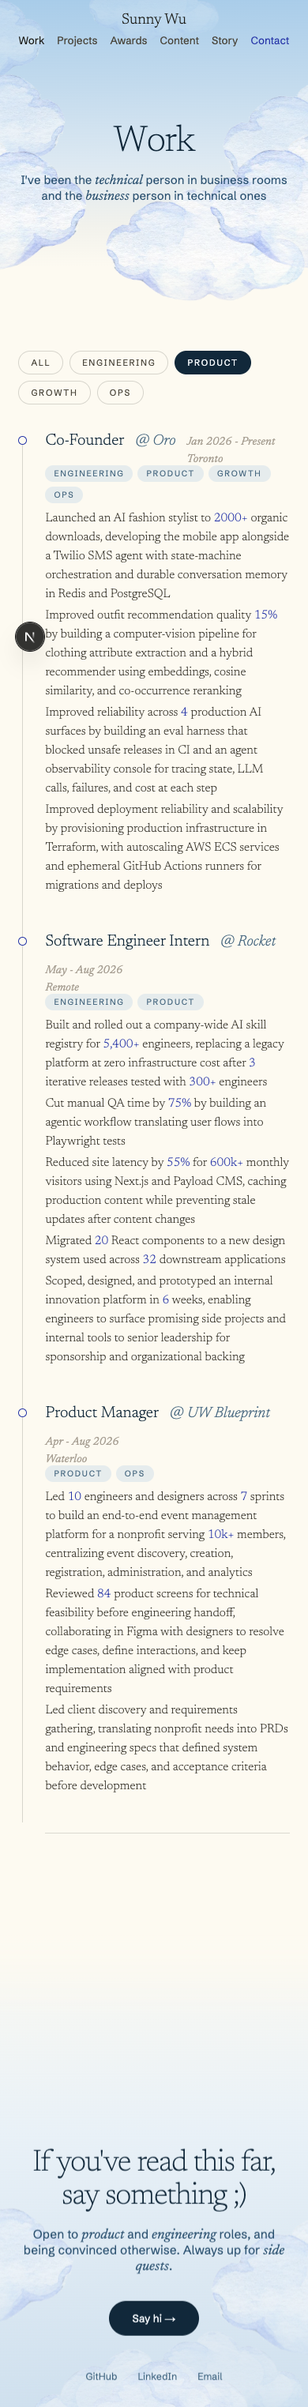
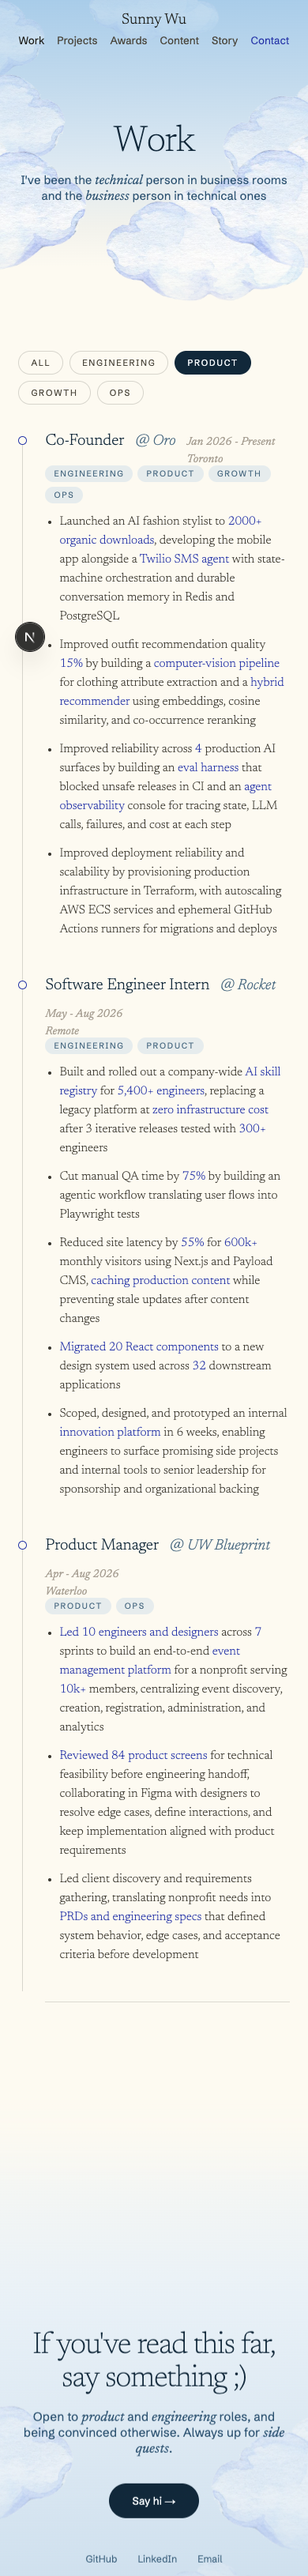
Match resume emphasis and improve experience bullet spacing

diff --git a/frontend/lib/data.ts b/frontend/lib/data.ts
@@ -51,7 +51,7 @@ export interface Role {
   tags: Discipline[];
   /** Optional: entries without one simply show the company name. */
   logo?: string;
-  /** Braces mark the figures that print in blue ink. */
+  /** Braces mark the metrics and phrases that print in blue ink. */
   bullets: string[];
 }
 
@@ -63,9 +63,9 @@ export const roles: Role[] = [
     location: "Toronto",
     tags: ["engineering", "product", "growth", "ops"],
     bullets: [
-      "Launched an AI fashion stylist to {2000+} organic downloads, developing the mobile app alongside a Twilio SMS agent with state-machine orchestration and durable conversation memory in Redis and PostgreSQL",
-      "Improved outfit recommendation quality {15%} by building a computer-vision pipeline for clothing attribute extraction and a hybrid recommender using embeddings, cosine similarity, and co-occurrence reranking",
-      "Improved reliability across {4} production AI surfaces by building an eval harness that blocked unsafe releases in CI and an agent observability console for tracing state, LLM calls, failures, and cost at each step",
+      "Launched an AI fashion stylist to {2000+ organic downloads}, developing the mobile app alongside a {Twilio SMS agent} with state-machine orchestration and durable conversation memory in Redis and PostgreSQL",
+      "Improved outfit recommendation quality {15%} by building a {computer-vision pipeline} for clothing attribute extraction and a {hybrid recommender} using embeddings, cosine similarity, and co-occurrence reranking",
+      "Improved reliability across {4} production AI surfaces by building an {eval harness} that blocked unsafe releases in CI and an {agent observability} console for tracing state, LLM calls, failures, and cost at each step",
       "Improved deployment reliability and scalability by provisioning production infrastructure in Terraform, with autoscaling AWS ECS services and ephemeral GitHub Actions runners for migrations and deploys",
     ],
   },
@@ -97,11 +97,11 @@ export const roles: Role[] = [
     location: "Remote",
     tags: ["engineering", "product"],
     bullets: [
-      "Built and rolled out a company-wide AI skill registry for {5,400+} engineers, replacing a legacy platform at zero infrastructure cost after {3} iterative releases tested with {300+} engineers",
+      "Built and rolled out a company-wide {AI skill registry} for {5,400+ engineers}, replacing a legacy platform at {zero infrastructure cost} after 3 iterative releases tested with {300+} engineers",
       "Cut manual QA time by {75%} by building an agentic workflow translating user flows into Playwright tests",
-      "Reduced site latency by {55%} for {600k+} monthly visitors using Next.js and Payload CMS, caching production content while preventing stale updates after content changes",
-      "Migrated {20} React components to a new design system used across {32} downstream applications",
-      "Scoped, designed, and prototyped an internal innovation platform in {6} weeks, enabling engineers to surface promising side projects and internal tools to senior leadership for sponsorship and organizational backing",
+      "Reduced site latency by {55%} for {600k+} monthly visitors using Next.js and Payload CMS, {caching production content} while preventing stale updates after content changes",
+      "{Migrated 20 React components} to a new design system used across {32} downstream applications",
+      "Scoped, designed, and prototyped an internal {innovation platform} in 6 weeks, enabling engineers to surface promising side projects and internal tools to senior leadership for sponsorship and organizational backing",
     ],
   },
   {
@@ -111,9 +111,9 @@ export const roles: Role[] = [
     location: "Waterloo",
     tags: ["product", "ops"],
     bullets: [
-      "Led {10} engineers and designers across {7} sprints to build an end-to-end event management platform for a nonprofit serving {10k+} members, centralizing event discovery, creation, registration, administration, and analytics",
-      "Reviewed {84} product screens for technical feasibility before engineering handoff, collaborating in Figma with designers to resolve edge cases, define interactions, and keep implementation aligned with product requirements",
-      "Led client discovery and requirements gathering, translating nonprofit needs into PRDs and engineering specs that defined system behavior, edge cases, and acceptance criteria before development",
+      "{Led 10 engineers and designers} across {7} sprints to build an end-to-end {event management platform} for a nonprofit serving {10k+} members, centralizing event discovery, creation, registration, administration, and analytics",
+      "{Reviewed 84 product screens} for technical feasibility before engineering handoff, collaborating in Figma with designers to resolve edge cases, define interactions, and keep implementation aligned with product requirements",
+      "Led client discovery and requirements gathering, translating nonprofit needs into {PRDs and engineering specs} that defined system behavior, edge cases, and acceptance criteria before development",
     ],
   },
   {

diff --git a/frontend/components/WorkTimeline.tsx b/frontend/components/WorkTimeline.tsx
@@ -206,12 +206,12 @@ export default function WorkTimeline() {
 
               <ul
                 style={{
-                  margin: "8px 0 0",
-                  padding: 0,
-                  listStyle: "none",
+                  margin: "12px 0 0",
+                  paddingLeft: 18,
+                  listStyle: "disc outside",
                   display: "flex",
                   flexDirection: "column",
-                  gap: 3,
+                  gap: 12,
                   maxWidth: 620,
                 }}
               >

diff --git a/frontend/lib/highlight.tsx b/frontend/lib/highlight.tsx
@@ -1,7 +1,7 @@
 import { Fragment, type ReactNode } from "react";
 import { color } from "@/lib/tokens";
 
-/** Renders {braced} figures in blue ink, leaving the rest of the line as written. */
+/** Renders {braced} metrics and phrases in blue ink, leaving the rest of the line as written. */
 export function highlightMetrics(text: string): ReactNode {
   return text.split(/(\{[^}]+\})/).map((part, i) =>
     part.startsWith("{") && part.endsWith("}") ? (
